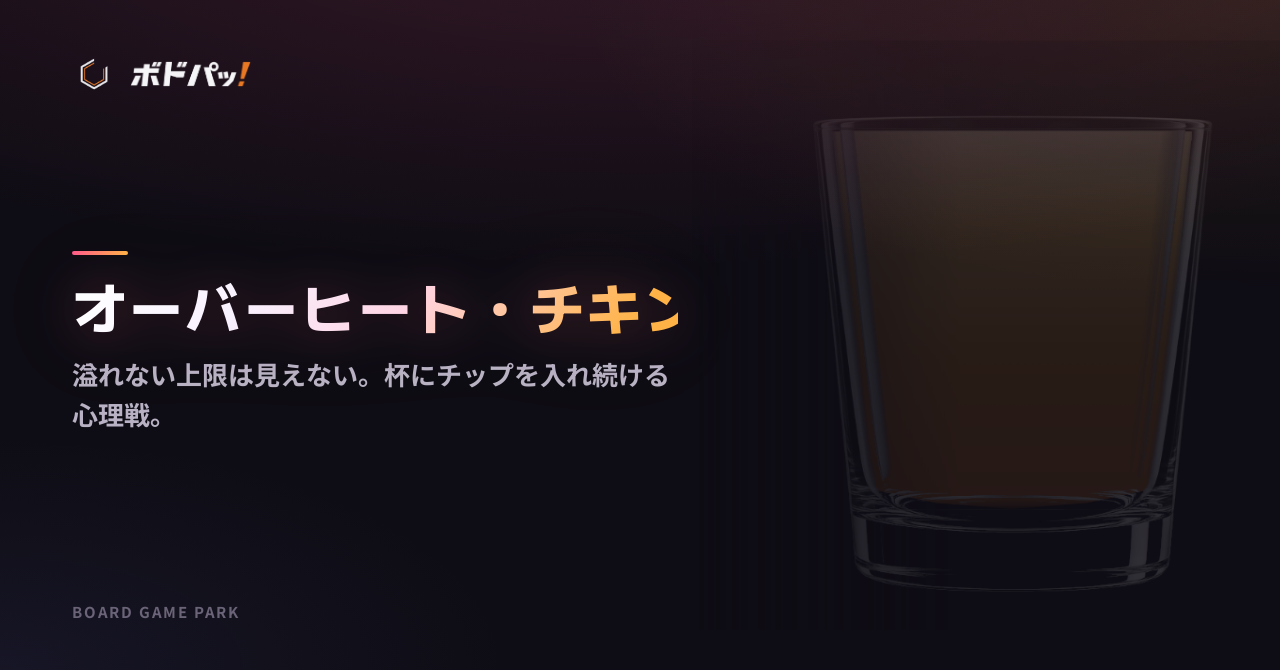
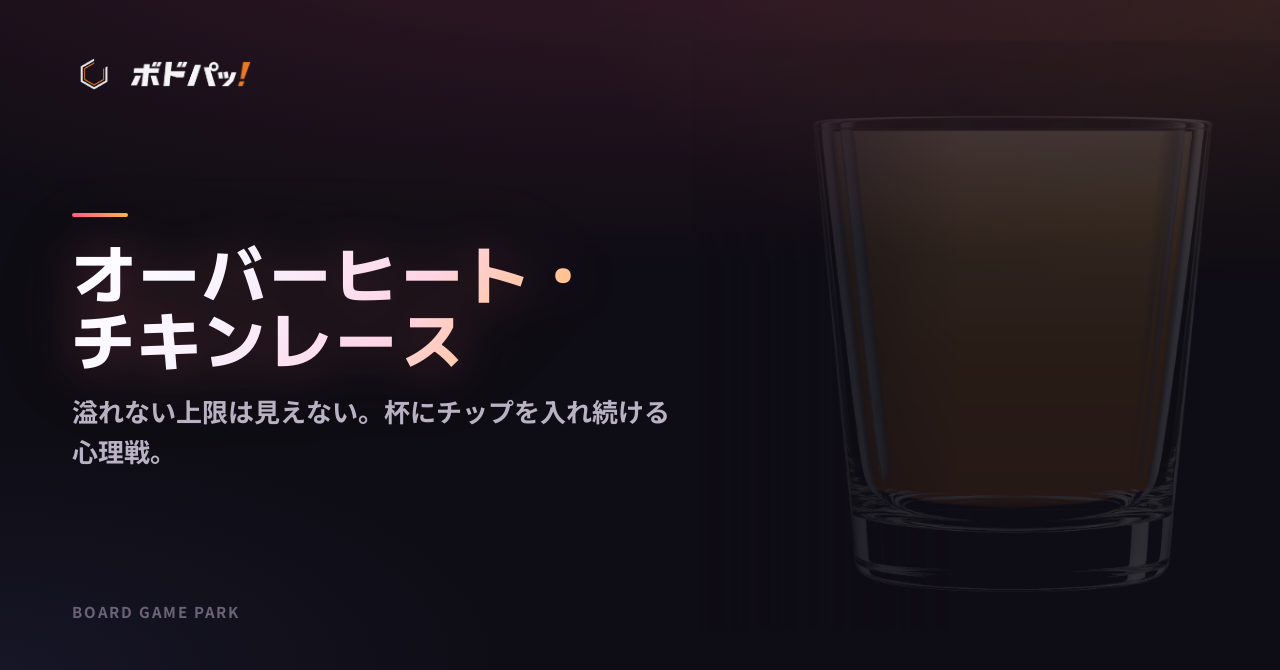
fix(note): オーバーヒートアイキャッチの長いタイトルを2行表示に修正

Changed region(s): [[0.0625, 0.3582, 0.5312, 0.7164], [0.0625, 0.2985, 0.0938, 0.3284]]

diff --git a/docs/note/eyecatch/README.md b/docs/note/eyecatch/README.md
@@ -11,7 +11,7 @@
 | 右 | プレイ画面の盤を **約10%の不透明度** で薄く（左へフェード） |
 
 文言は `entries.json` で管理します（各記事の「サムネ用キャッチコピー」と揃えてください）。  
-任意: `boardOpacity`（盤の濃さ）、`titleNoWrap` / `titleFontSize`（長いタイトルの1行表示）、`cardOverlay`（`public/games/{slug}/` のカード画像を右背景に重ねる。キング＆スパイ向け）。
+任意: `boardOpacity`（盤の濃さ）、`titleNoWrap` / `titleFontSize`（長いタイトル）、`title` 内の `\n`（意図した改行）、`cardOverlay`（`public/games/{slug}/` のカード画像を右背景に重ねる。キング＆スパイ向け）。
 
 ## ファイル
 
